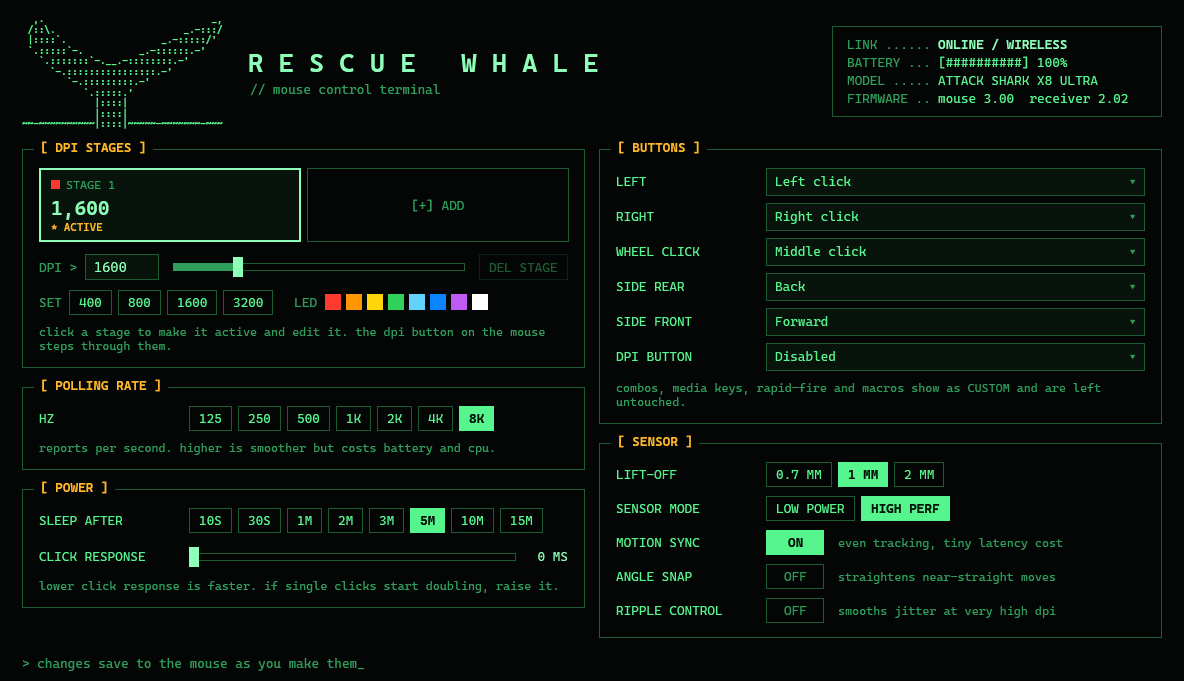
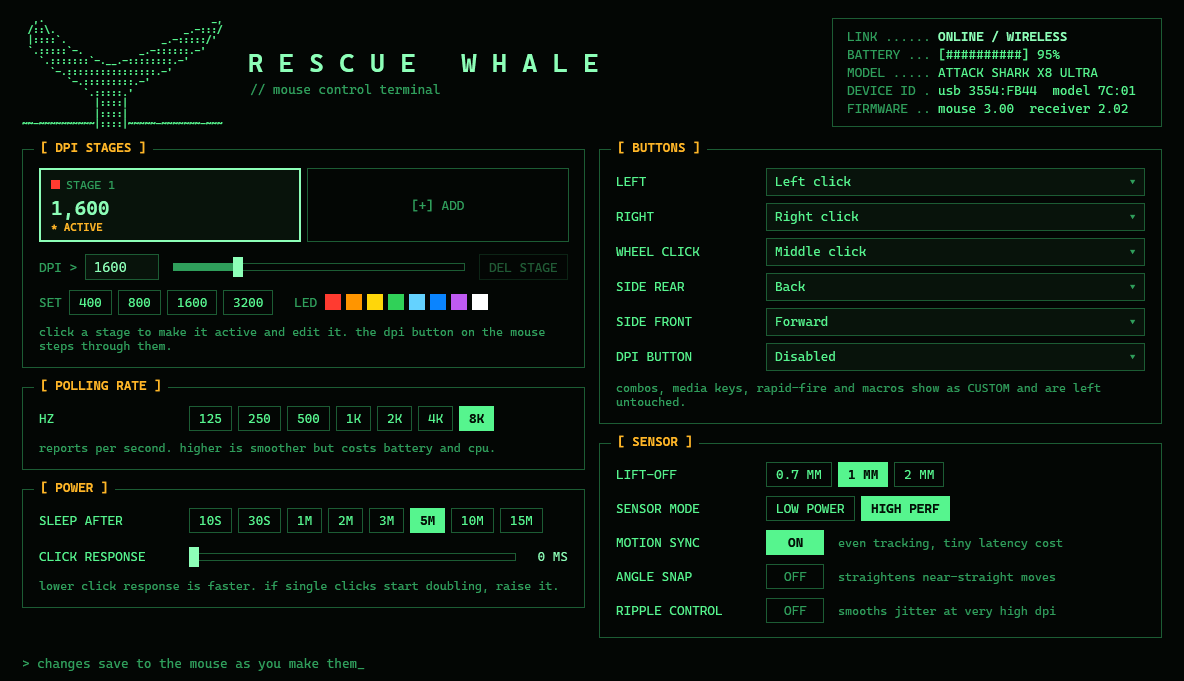
Tighten the README after a final accuracy check
Explain how to find the USB ID when the app finds no mouse, warn that
DPI may save incorrectly on untested models, describe the protocol's
origin more precisely, and refresh the screenshot.

Changed region(s): [[0.7188, 0.0308, 0.9688, 0.185]]

diff --git a/README.md b/README.md
@@ -43,7 +43,7 @@ I only own an X8 Ultra, so supporting other Attack Shark models depends on peopl
 
 **What happened.** One of:
 
-- "No mouse found", so the app didn't recognize the device at all
+- "No mouse found", so the app didn't recognize the device at all. The status box has no device ID in that case, so please look it up in Windows: Device Manager, then your mouse under "Mice and other pointing devices", then Properties, Details, and "Hardware Ids". It looks like `VID_3554&PID_FB43`.
 - Connected but read-only, so the mouse stores its settings in a layout the app doesn't know
 - Connected and editable, in which case please say which settings worked and which didn't
 
@@ -58,7 +58,9 @@ I only own an X8 Ultra, so supporting other Attack Shark models depends on peopl
 
 **Optional but very helpful.** A screenshot of each page of the manufacturer's software for that mouse, so the settings and their allowed values are clear.
 
-Please try a model the app shows as read-only before anything else. In that state Rescue Whale writes nothing to the mouse, so reporting it is risk-free. If you can write C#, new models are added in `Mouse.cs` (see `KnownModels`), and pull requests are welcome.
+If the app shows your mouse as read-only, reporting it is risk-free: in that state Rescue Whale writes nothing to the mouse. If it shows your mouse as editable, be careful with DPI in particular. Different sensors store DPI differently, so a value saved on an untested model may not be the value you picked. The manufacturer's software can set it back.
+
+If you can write C#, new models are added in `Mouse.cs` (see `KnownModels`), and pull requests are welcome.
 
 ## Download and run
 
@@ -79,9 +81,9 @@ RescueWhale.exe --demo
 
 - **Built and tested for the Attack Shark X8 Ultra only.** It has not been run on any other mouse.
 - **Unofficial.** Rescue Whale is an independent project. It is not affiliated with, endorsed by, or supported by Attack Shark or Compx. Product names are trademarks of their owners and are used only to say what the app works with.
-- **Use at your own risk.** The app writes settings to your mouse's memory, and it is provided with no warranty (see the [license](LICENSE)). Before writing, it checks that the settings it read carry the checksums it expects, and goes read-only if they don't. That is a safeguard, not a guarantee.
+- **Use at your own risk.** The app writes settings to your mouse's memory, and it is provided with no warranty (see the [license](LICENSE)). Before writing, it checks that the settings it read carry the checksums it expects, and goes read-only if they don't. That is a safeguard, not a guarantee, and on a model other than the X8 Ultra a setting could be saved incorrectly.
 - **Not a full replacement.** See [What it does not do](#what-it-does-not-do). Keep the manufacturer's software for those jobs.
-- **How the protocol was worked out.** By querying my own mouse and reading the configuration files installed with the manufacturer's software. No manufacturer code was copied or decompiled, and none of their files are included here.
+- **How the protocol was worked out.** The commands and memory layout follow what is publicly known about how Compx-based mice communicate, confirmed by querying my own mouse and by reading the configuration files installed with the manufacturer's software. No manufacturer code or files are included here.
 - **AI-assisted.** The code, icon, and documentation were written with Claude, Anthropic's AI, under my direction, and tested by me on my own hardware.
 - **Unsigned program.** The download is not code-signed, so Windows shows a "Windows protected your PC" warning on first run. Choose **More info**, then **Run anyway**.
 - **Privacy.** No telemetry, no network connections, and nothing stored on your PC. Your settings live only on the mouse.
